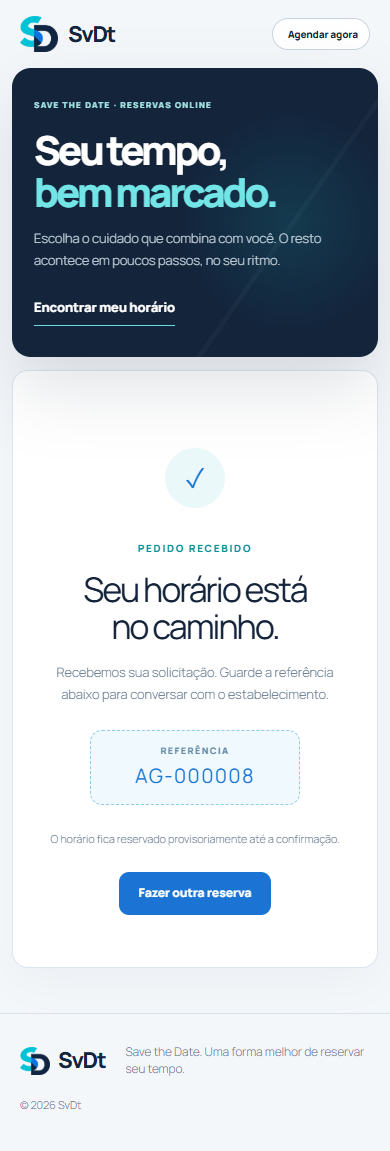
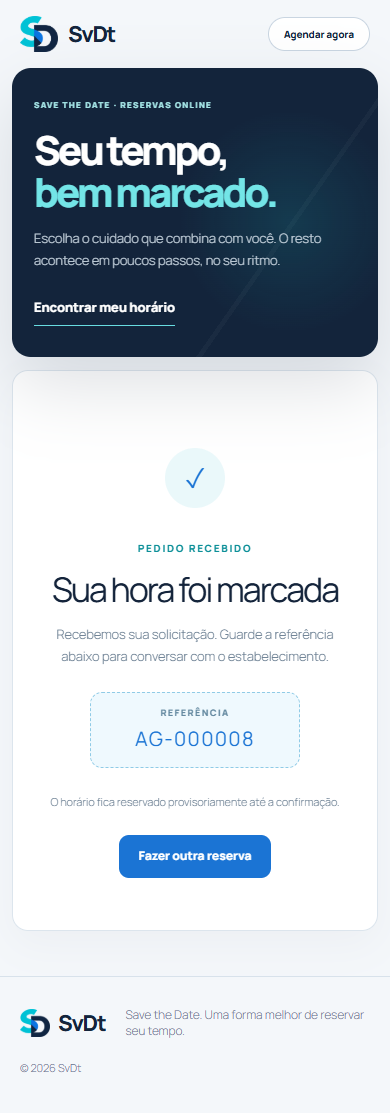
Update booking success headline

diff --git a/public/booking.php b/public/booking.php
@@ -45,7 +45,7 @@
         <form data-booking-form class="svdt-contact"><div class="svdt-field-row"><label>Nome completo<input name="customer_name" autocomplete="name" maxlength="150" placeholder="Como podemos chamar você?" required></label><label>E-mail<input type="email" name="customer_email" autocomplete="email" maxlength="190" placeholder="voce@exemplo.com" required></label></div><label>Telefone<input type="tel" name="customer_phone" autocomplete="tel" maxlength="30" placeholder="(11) 99999-9999" required></label><label>Observações <small>opcional</small><textarea name="notes" maxlength="2000" rows="3" placeholder="Alguma preferência ou detalhe importante?"></textarea></label><div class="svdt-trap" aria-hidden="true"><label>Site da empresa<input name="company_website" tabindex="-1" autocomplete="off"></label></div><p class="svdt-privacy">Usaremos seus dados apenas para administrar esta solicitação.</p><div class="svdt-feedback" data-feedback role="status" aria-live="polite"></div><button type="submit" class="svdt-submit" data-submit>Enviar solicitação</button></form>
       </section>
 
-      <section class="svdt-success" data-success hidden role="status" aria-live="polite"><div class="svdt-success-icon" aria-hidden="true">✓</div><span class="svdt-section-index">PEDIDO RECEBIDO</span><h2>Seu horário está<br>no caminho.</h2><p>Recebemos sua solicitação. Guarde a referência abaixo para conversar com o estabelecimento.</p><div class="svdt-reference"><span>REFERÊNCIA</span><strong data-reference></strong></div><p class="svdt-success-note">O horário fica reservado provisoriamente até a confirmação.</p><button type="button" data-new>Fazer outra reserva</button></section>
+      <section class="svdt-success" data-success hidden role="status" aria-live="polite"><div class="svdt-success-icon" aria-hidden="true">✓</div><span class="svdt-section-index">PEDIDO RECEBIDO</span><h2>Sua hora foi marcada</h2><p>Recebemos sua solicitação. Guarde a referência abaixo para conversar com o estabelecimento.</p><div class="svdt-reference"><span>REFERÊNCIA</span><strong data-reference></strong></div><p class="svdt-success-note">O horário fica reservado provisoriamente até a confirmação.</p><button type="button" data-new>Fazer outra reserva</button></section>
     </div>
   </div>
 </div>
